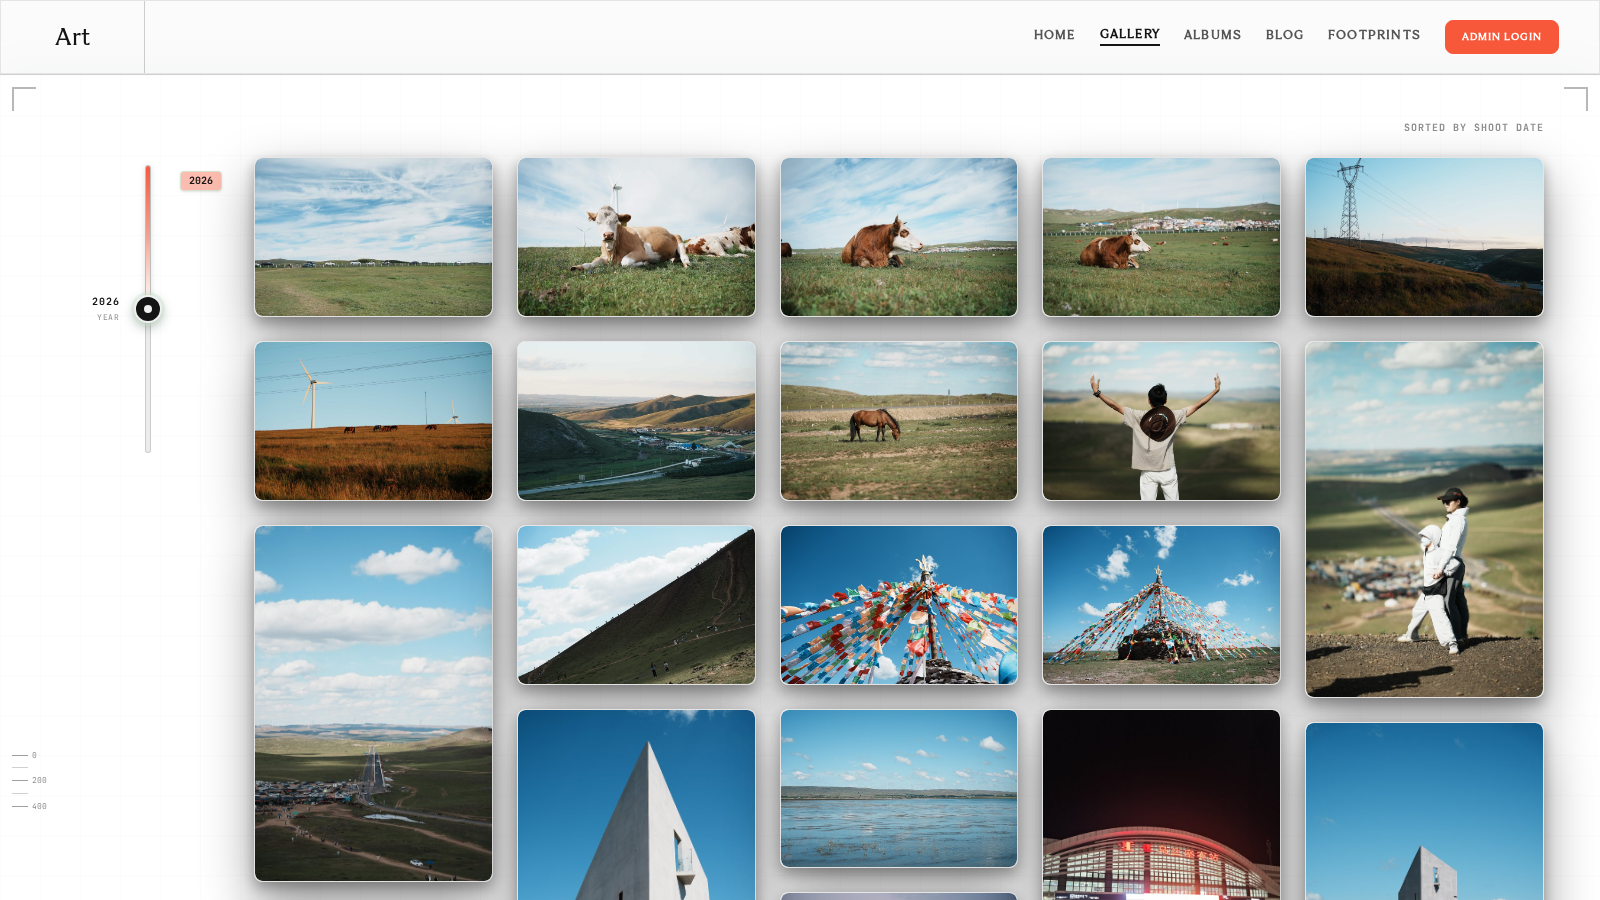
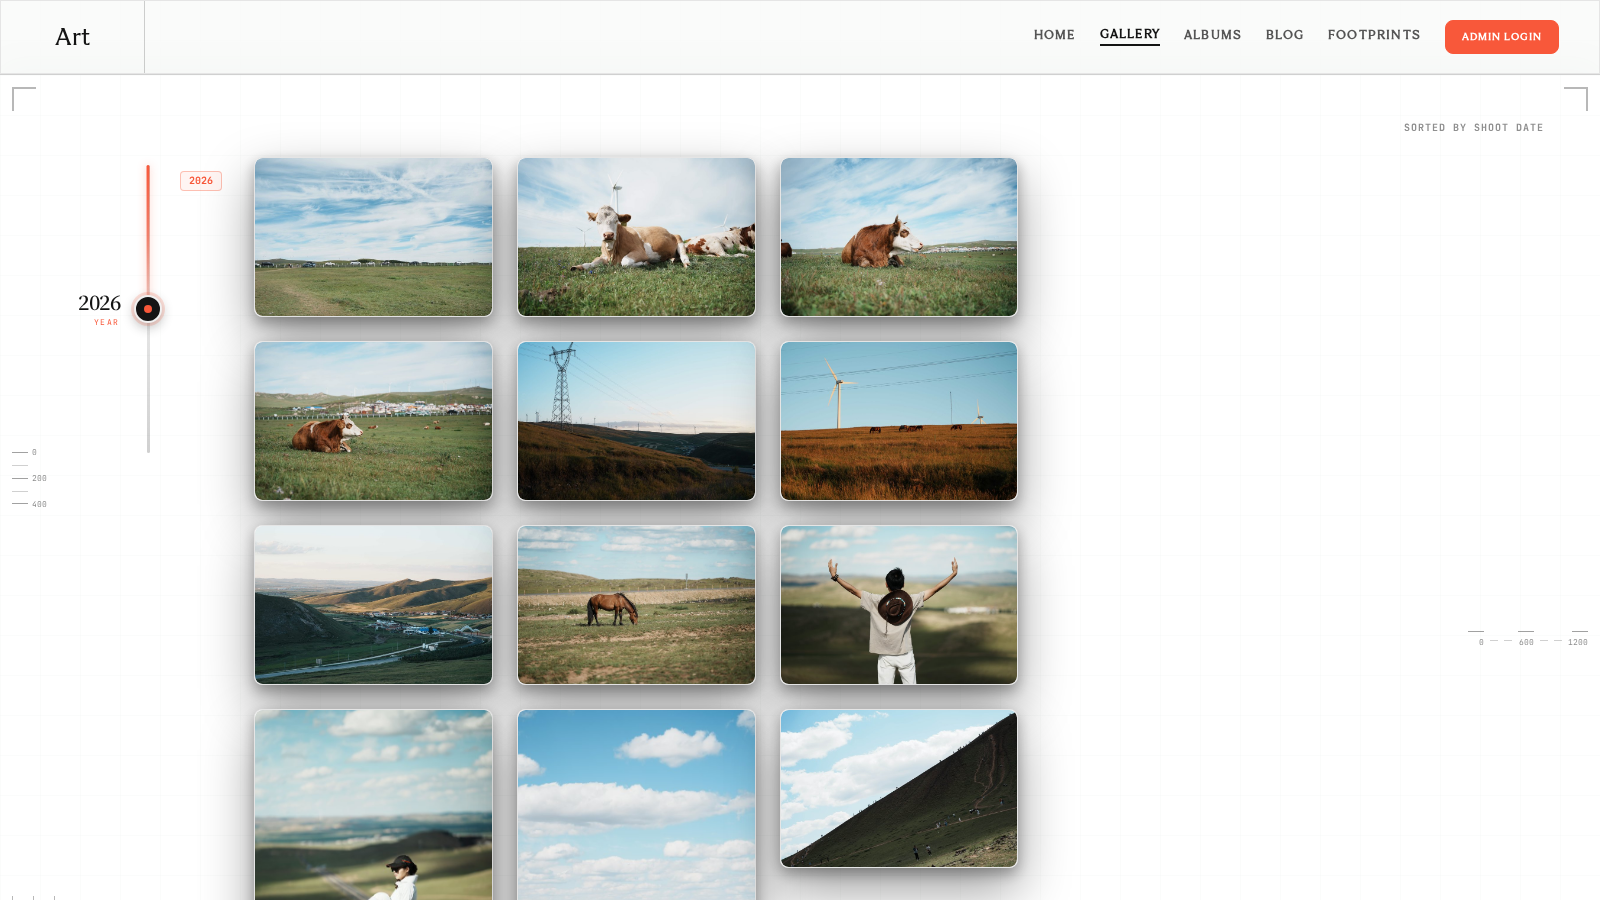
style: 美化画廊左侧时间线（黑白+橙红主题，去除旧绿色调残留）

diff --git a/frontend/components/GallerySection.tsx b/frontend/components/GallerySection.tsx
@@ -46,13 +46,13 @@ function DraggableTimeline({ entries, active, onChange }: { entries: string[]; a
       {/* Year label */}
       <div className="w-12 md:w-16 text-right flex-shrink-0 flex flex-col items-end gap-1.5">
         <span
-          className="text-label-caps text-primary leading-none"
-          style={{ fontFamily: "'JetBrains Mono', 'Noto Serif SC', monospace" }}
+          className="text-lg md:text-xl font-bold text-primary leading-none tracking-tight"
+          style={{ fontFamily: "'Sigma Serif', 'Noto Serif SC', serif" }}
         >
           {active || "—"}
         </span>
         <span
-          className="text-[8px] text-outline uppercase tracking-widest leading-none"
+          className="text-[8px] text-secondary uppercase tracking-[0.2em] leading-none"
           style={{ fontFamily: "'JetBrains Mono', 'Noto Serif SC', monospace" }}
         >
           Year
@@ -71,12 +71,12 @@ function DraggableTimeline({ entries, active, onChange }: { entries: string[]; a
         {/* Vertical rail */}
         <div
           ref={railRef}
-          className="relative w-1.5 h-full bg-surface-container-high border border-primary/15 rounded-full overflow-visible"
+          className="relative w-[3px] h-full bg-gradient-to-b from-primary/20 via-primary/10 to-primary/20 rounded-full overflow-visible"
         >
           {/* Progress fill above the active thumb */}
           <div
-            className="absolute top-0 left-1/2 -translate-x-1/2 w-full rounded-full bg-gradient-to-b from-mint-accent via-mint-accent/50 to-white pointer-events-none"
-            style={{ height: `${activePos}%`, boxShadow: "0 0 6px rgba(45,79,62,0.25)" }}
+            className="absolute top-0 left-1/2 -translate-x-1/2 w-full rounded-full bg-gradient-to-b from-secondary via-secondary/70 to-secondary/20 pointer-events-none"
+            style={{ height: `${activePos}%`, boxShadow: "0 0 8px rgba(248,88,58,0.35)" }}
           />
 
           {/* Node dots */}
@@ -89,13 +89,13 @@ function DraggableTimeline({ entries, active, onChange }: { entries: string[]; a
                 className="absolute left-1/2 -translate-x-1/2 -translate-y-1/2 rounded-full transition-all duration-200 pointer-events-none"
                 style={{
                   top: `${y}%`,
-                  width: isActive ? 18 : 9,
-                  height: isActive ? 18 : 9,
-                  background: isActive ? "#141414" : "#f8faf8",
-                  border: isActive ? "2px solid #f0f0f0" : "1px solid rgba(0,0,0,0.35)",
+                  width: isActive ? 14 : 7,
+                  height: isActive ? 14 : 7,
+                  background: isActive ? "#f8583a" : "#ffffff",
+                  border: isActive ? "2px solid #f8583a" : "1px solid rgba(20,20,20,0.35)",
                   boxShadow: isActive
-                    ? "0 0 0 4px rgba(209,231,211,0.65), 0 2px 8px rgba(22,56,40,0.3)"
-                    : "0 1px 3px rgba(22,56,40,0.15)",
+                    ? "0 0 0 4px rgba(248,88,58,0.18), 0 2px 6px rgba(20,20,20,0.2)"
+                    : "0 1px 3px rgba(20,20,20,0.12)",
                 }}
               />
             );
@@ -106,14 +106,14 @@ function DraggableTimeline({ entries, active, onChange }: { entries: string[]; a
             className="absolute left-1/2 -translate-x-1/2 -translate-y-1/2 w-7 h-7 rounded-full bg-primary border-2 border-primary-fixed pointer-events-none transition-[top] duration-100"
             style={{
               top: `${activePos}%`,
-              boxShadow: "0 0 0 3px rgba(209,231,211,0.45), 0 4px 12px rgba(22,56,40,0.35)",
+              boxShadow: "0 0 0 3px rgba(248,88,58,0.18), 0 4px 12px rgba(20,20,20,0.3)",
             }}
           >
             <div className="absolute inset-0 flex items-center justify-center">
-              <div className="w-2 h-2 rounded-full bg-primary-fixed" />
+              <div className="w-2 h-2 rounded-full bg-secondary" />
             </div>
             {/* Subtle pulse ring */}
-            <div className="absolute inset-0 rounded-full border border-mint-accent/50 animate-ping pointer-events-none" />
+            <div className="absolute inset-0 rounded-full border border-secondary/60 animate-ping pointer-events-none" />
           </div>
         </div>
       </div>
@@ -125,11 +125,12 @@ function DraggableTimeline({ entries, active, onChange }: { entries: string[]; a
             key={entry}
             className={`leading-none transition-all duration-200 cursor-pointer px-2 py-1 rounded-sm ${
               i === activeIdx
-                ? "text-primary font-bold bg-mint-accent/40 shadow-sm"
+                ? "text-secondary font-bold"
                 : "text-outline hover:text-primary"
             }`}
             style={{
-              border: i === activeIdx ? "1px solid rgba(209,231,211,0.9)" : "1px solid transparent",
+              border: i === activeIdx ? "1px solid rgba(248,88,58,0.35)" : "1px solid transparent",
+              background: i === activeIdx ? "rgba(248,88,58,0.06)" : "transparent",
             }}
             onClick={() => onChange(entry)}
           >
